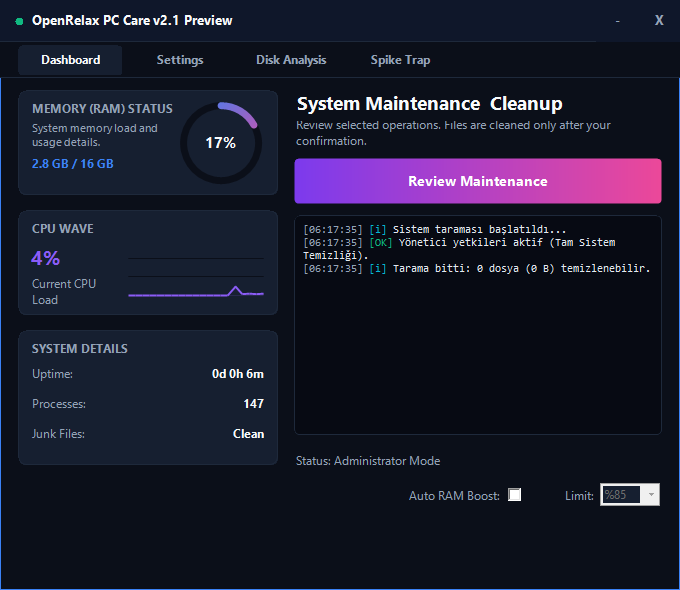
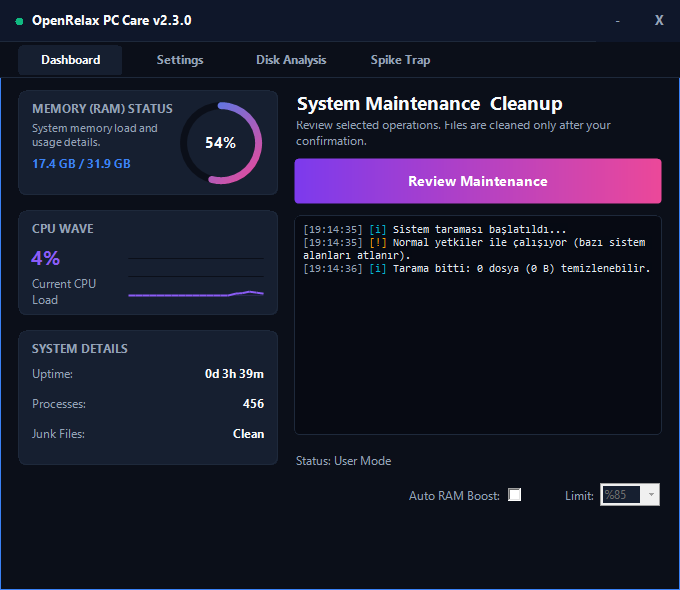
release: 2.3.0
Version 2.3.0 (no edition suffix), changelog joining the 2.2 notes with the
hardening from main, README/PLAN for the new features and roadmap,
tests/run-all.ps1 release gate, fresh TR/EN interface captures.

Release gate (local, standard user): verify, unit, engine-stress, ui-smoke,
exit-smoke, visual-smoke and gui-stress passed; elevated-fotokapan skipped
(runs in CI).

diff --git a/.github/ci/scope.py b/.github/ci/scope.py
@@ -7,7 +7,7 @@ from pathlib import Path
 ORDINARY_TESTS = {
     'tests/verify.ps1', 'tests/safety-contracts.ps1', 'tests/test-support.ps1', 'tests/unit.ps1',
     'tests/engine-stress.ps1', 'tests/gui-stress.ps1', 'tests/ui-smoke.ps1',
-    'tests/exit-smoke.ps1', 'tests/visual-smoke.ps1', 'tests/fotokapan-stress.ps1',
+    'tests/exit-smoke.ps1', 'tests/visual-smoke.ps1', 'tests/fotokapan-stress.ps1', 'tests/run-all.ps1',
 }
 
 

diff --git a/README.md b/README.md
@@ -3,7 +3,8 @@
 [![Windows verification](https://github.com/mehmeterendereli/openrelax/actions/workflows/verify.yml/badge.svg)](https://github.com/mehmeterendereli/openrelax/actions/workflows/verify.yml)
 
 Portable, MIT-licensed Windows maintenance software written in PowerShell and
-Windows Forms. Source version **2.1 Preview** is available from this repository.
+Windows Forms. Source version **2.3.0** is available from this repository
+([changelog](CHANGELOG.md)).
 No signed binary, stable release or published LTS support period is provided.
 
 ## Interface preview
@@ -12,9 +13,9 @@ No signed binary, stable release or published LTS support period is provided.
 | --- | --- |
 | ![OpenRelax English dashboard showing maintenance status and review controls](docs/screenshots/en-dashboard.png) | ![OpenRelax Türkçe panel; bakım durumu ve gözden geçirme denetimleri](docs/screenshots/tr-dashboard.png) |
 
-These are real 680×590 WinForms captures produced by the verified Windows workflow,
-not mock-ups. [Browse all eight TR/EN interface captures](docs/screenshots/README.md)
-and the [exact CI run](https://github.com/mehmeterendereli/openrelax/actions/runs/38117327204).
+These are real 680×590 WinForms captures made by `tests/visual-smoke.ps1`, not
+mock-ups; every CI run publishes fresh ones as evidence.
+[Browse all eight TR/EN interface captures](docs/screenshots/README.md).
 
 ## Run from source
 
@@ -50,11 +51,15 @@ powershell -NoProfile -ExecutionPolicy Bypass -File .\openrelax.ps1 -AutoClean
 ## Behaviour and safety boundaries
 
 - Defaults select temp, browser cache and Discord cache. Recycle Bin, shader
-  cache, error reports, update cache and GPU installer leftovers are opt-in.
+  cache, error reports, update cache, GPU installer leftovers and developer
+  package caches (npm, pip, NuGet, Yarn; files untouched for 24 hours) are opt-in.
+- Cleaning shows the files and bytes deleted so far on the maintenance button.
 - Interactive maintenance requires confirmation, including warnings for
   permanent Recycle Bin deletion and diagnostic/cache consequences.
 - RAM working-set trimming and DNS flushing are separate opt-in settings.
-  Automatic RAM trimming is also disabled by default. Trimming can cause pages
+  Automatic RAM trimming is also disabled by default. Critical processes, the
+  foreground app (a game, a call), processes busy during a 500 ms CPU sample and
+  processes under 30 MB are never trimmed. Trimming can cause pages
   to be loaded again; measured available-memory change is temporary and also
   affected by other programs. It is not proof of a performance improvement.
 - Only the canonical user temp and Windows temp paths are accepted. Custom
@@ -66,7 +71,8 @@ powershell -NoProfile -ExecutionPolicy Bypass -File .\openrelax.ps1 -AutoClean
 - Windows Update cleanup is interactive, admin-only and restores previously
   running services. Stop/restart failures are errors.
 - `-AutoClean` rejects missing/invalid settings. It skips Recycle Bin, shader,
-  WER, Windows Update and installer categories and does not trim RAM/flush DNS.
+  WER, Windows Update, installer and developer-cache categories and does not
+  trim RAM/flush DNS.
   Exit codes: **0** complete, **1** failed, **2** partial/skipped. `-SelfTest`
   also exits nonzero when its scan cannot complete reliably. Combining
   `-SelfTest` and `-AutoClean` is refused before any maintenance or state write.
@@ -74,23 +80,36 @@ powershell -NoProfile -ExecutionPolicy Bypass -File .\openrelax.ps1 -AutoClean
   Global, access-controlled mutexes coordinate the same settings path across Windows
   sessions; one GUI instance prevents stale preference overwrites.
   Statistics preserve the most recent saved preferences.
-- Scan sizes may be lower bounds. Disk analysis skips links and unreadable
-  entries, has a 30-second budget and labels incomplete results. A stalled
+- Scan sizes may be lower bounds. Disk analysis walks the profile once with
+  per-folder totals (files directly in the profile get their own row), skips
+  links and unreadable entries, stops after 90 seconds and labels incomplete
+  results. A stalled
   worker keeps the GUI busy until cancellation actually completes. Exit waits
   for active operations and service restoration instead of terminating their worker.
 
 Settings and aggregate statistics: `%APPDATA%\OpenRelax\settings.json`.
 Scheduled results: `%APPDATA%\OpenRelax\autoclean.log`.
-Existing valid 2.1 settings retain their categories; new RAM/DNS options default
-off. An invalid file is not silently replaced by AutoClean; review and save
+Existing valid 2.1/2.2 settings retain their categories and statistics; new
+RAM/DNS, developer-cache and command-line options default off. An invalid file is not silently replaced by AutoClean; review and save
 preferences in the GUI to recover it.
 
 ## Fotokapan CPU spike recorder
 
 Fotokapan runs independently as a SYSTEM scheduled task. Sustained CPU spikes
-record process names, IDs, parent names, CPU shares and timestamps. **Command
-arguments are omitted** (`cmd` is empty). CPU that cannot be assigned to a
-process is labelled unassigned, rather than diagnosed as a faulty driver.
+record process names, IDs, parent names, CPU shares, timestamps and whether Task
+Scheduler started the process. **Command arguments are omitted by default**
+(`cmd` and `parentCmd` are empty). The Fotokapan tab's **Record command lines
+(masked)** option, applied with Install / Update, keeps masked command lines so a
+`python.exe` or `node.exe` spike shows which script ran. Masking removes common
+token/password/key forms but cannot guarantee that every secret is removed.
+CPU that cannot be assigned to a process is labelled unattributed (interrupts/DPC
+or processes that exited), rather than diagnosed as a faulty driver.
+
+The tab's **Summary** page turns the last 7 days into findings per culprit
+category with advice, the culprit table and spikes per hour of day. **Records**
+lists every spike; **Save report** writes the diagnosis as Markdown to
+`Documents\OpenRelax\`. A tray balloon announces a new spike (at most one per 15
+minutes; switch it off on the tab).
 Defender scan/realtime classification is heuristic; extra Defender performance
 tracing is off unless standalone `-DefenderTrace` is explicitly supplied.
 Such traces may contain file paths; do not publish them without review.
@@ -109,8 +128,10 @@ Standalone installation defaults to its current user; use `-ReaderSid <user-SID>
 when explicitly installing for another Windows account. Source files retain
 administrative ownership and protected ACLs. Reparse and
 hardlinked existing task files/logs are rejected before ACL changes. Uninstall
-retains recordings. Old logs in the previous root are retained on upgrade. They can still contain
-command arguments recorded by earlier versions; review them before sharing.
+retains recordings. Installing over a 2.2.x trap moves its records, log and
+heartbeat from the trap root into `logs/` (until then the GUI reads both). They
+can still contain command arguments recorded by earlier versions; review them
+before sharing.
 Failed upgrades leave the old task disabled, including across reboot.
 Monthly logs older than 180 days are pruned by the recorder.
 
@@ -125,7 +146,13 @@ powershell -NoProfile -ExecutionPolicy Bypass -File .\tests\verify.ps1
 powershell -NoProfile -ExecutionPolicy Bypass -File .\tests\visual-smoke.ps1
 # Native focus, accessible controls and small-viewport reachability
 powershell -NoProfile -ExecutionPolicy Bypass -File .\tests\ui-smoke.ps1
+# Release gate: every suite in order with a summary
+powershell -NoProfile -ExecutionPolicy Bypass -File .\tests\run-all.ps1
 ```
+
+`verify.ps1` also runs `tests\unit.ps1`: the engine walker, categories, RAM-trim
+selection, Fotokapan recorder helpers and legacy-log migration, diagnosis,
+report and notification rules.
 
 CI parses every PowerShell source/test and all four worker scripts, runs
 deterministic safety contracts and starts real isolated SelfTest/AutoClean
@@ -159,8 +186,11 @@ non-sensitive log excerpt.
 | --- | --- |
 | `openrelax.ps1` | WinForms UI, target descriptors, Windows integration and worker entrypoints |
 | `lib/OpenRelax.Core.ps1` | Typed settings, atomic persistence, path guards, traversal and shared maintenance orchestration |
+| `lib/OpenRelax.Engine.ps1` | Cleanup categories, the guarded single-pass walker, Windows Update cleanup and RAM trimming |
+| `lib/OpenRelax.Trap.ps1` | Fotokapan record reading, episodes, culprits, diagnosis, report and notification rules |
 | `fotokapan.ps1` | Recorder and protected SYSTEM installation |
-| `tests/verify.ps1`, `tests/safety-contracts.ps1` | Lightweight CI and real synthetic end-to-end checks |
+| `tests/verify.ps1`, `tests/safety-contracts.ps1`, `tests/unit.ps1` | Lightweight CI, pure-function and real synthetic end-to-end checks |
+| `tests/run-all.ps1` | Release gate |
 | `tests/test-support.ps1` | Owned fixtures and bounded child-process isolation |
 | `tests/visual-smoke.ps1`, `tests/*-stress.ps1` | Visual and optional resource/load checks |
 
@@ -175,5 +205,17 @@ OpenRelax kaynak üzerinden çalışan açık kaynak Windows bakım aracıdır. 
 öncesinde seçilen işlemleri gözden geçirin. Sepet, sistem önbellekleri, RAM ve
 DNS işlemleri varsayılan olarak kapalıdır. Bozuk ayarla otomatik temizlik durur.
 Testler yalnız kendilerinin oluşturduğu sentetik dosyaları kullanır.
+
+2.3 yenilikleri: **Fotokapan** sekmesinde son 7 günün teşhisi (Defender, oyun,
+geliştirici/AI araçları, tarayıcı, Windows, zamanlanmış görev ve süreçlere
+atanamayan CPU payları, ne yapılacağıyla), saate göre dağılım, tüm sıçramaların
+listesi, Markdown raporu (`Belgeler\OpenRelax\`) ve yeni sıçrama bildirimi.
+**Komut satırlarını kaydet (maskeli)** seçeneği varsayılan olarak kapalıdır;
+açılıp Kur / Güncelle yapıldığında `python.exe` gibi bir sorumlunun hangi betiği
+çalıştırdığı görünür. Maskeleme her gizli bilgiyi yakalayamaz. Ayrıca isteğe
+bağlı geliştirici önbellekleri (npm, pip, NuGet, Yarn), temizlik sırasında canlı
+dosya/bayt sayacı, tek geçişte ve en fazla 90 saniyede biten disk analizi ve ön
+plandaki ya da o an çalışan uygulamalara dokunmayan RAM boşaltma geldi. 2.2.x ile
+kurulmuş Fotokapan kayıtları, Kur / Güncelle ile yeni `logs\` klasörüne taşınır.
 Geliştirme sırası, kabul ölçütleri ve kalan sürüm doğrulamaları [PLAN.md](PLAN.md)
 içindedir. Lisans [MIT](LICENSE).

diff --git a/CHANGELOG.md b/CHANGELOG.md
@@ -1,6 +1,35 @@
 # Changelog
 
-## Unreleased
+## 2.3.0 — unreleased
+
+This release joins the two lines of development. The 2.2 features were built
+locally on top of 2.1.1 and never published (they are kept on branch
+`archive/local-2.2.1`); `main` meanwhile received the hardening below. 2.3.0 is
+`main` plus the 2.2 features, ported onto its safety model. Design and plan:
+`docs/superpowers/specs/2026-10-17-openrelax-roadmap-design.md`,
+`docs/superpowers/plans/2026-10-17-openrelax-2.3.md`.
+
+### Added
+- **Fotokapan diagnosis.** The tab's Summary page turns the last 7 days of spikes into findings per culprit category: Defender (on-demand scans vs. real-time scanning, with the folder it scanned most when a `-DefenderTrace` recording exists), games, developer/AI tools, browser, Windows, scheduled tasks and unattributed CPU. Each finding gives its share and what to do. The page also shows the culprit table and spikes per hour of day.
+- **Records page and report.** Every spike with duration, peak, culprit and notes (Defender scan/real-time, scheduled task); **Save report** writes the diagnosis as Markdown to `Documents\OpenRelax\`.
+- **Spike notifications.** A tray balloon when a new spike is recorded (at most one per 15 minutes; a click opens the records; switch on the Fotokapan tab).
+- **Opt-in command-line recording.** Off by default. When switched on (Fotokapan tab, then Install / Update), the trap keeps masked command lines of the top processes and their parents, so a `python.exe` or `node.exe` spike shows which script ran. Masking is best effort and the setting says so.
+- **Scheduled-task detection without storing arguments.** The recorder decides from the parent's command line whether Task Scheduler started a process, then discards it.
+- **Developer caches** category (npm, pip, NuGet, Yarn): opt-in, files untouched for 24 h only, never cleaned by headless AutoClean.
+- **Live cleaning progress**: files and bytes deleted so far on the button.
+- `tests/unit.ps1` (part of `verify.ps1`) and `tests/run-all.ps1` (release gate).
+
+### Changed
+- **Engine walker.** Scan, clean and disk analysis share `Invoke-JunkWalk` (`lib/OpenRelax.Engine.ps1`): one directory walk that never enters reparse points, re-checks the folder chain and each file before deleting, and reports progress by elapsed time. Removing 30 000 files: about 6.6 s.
+- **Disk analysis** walks the profile once (at most 90 s) with per-folder totals; files directly in the profile get their own row.
+- **RAM trimming** leaves the foreground app, processes busy during a 500 ms CPU sample and processes under 30 MB alone, and logs how many it skipped.
+- Fotokapan record reading, diagnosis and report logic moved to `lib/OpenRelax.Trap.ps1`; settings schema 3 (`devcache`, `trapNotify`, `trapRecordCommandLines`; older files load unchanged).
+
+### Fixed
+- **Upgrading a 2.2.x trap lost the visible history.** 2.2.x wrote its records to the trap root; 2.3 reads `logs\`. The GUI now also reads the old root until the trap is reinstalled, and installing moves the files into `logs\` (a month present in both keeps the older lines first).
+- Defender recordings no longer lose their summary on report rows without a path or on archive members (from 2.2.1).
+
+### Hardening carried over from `main` (previously "Unreleased")
 
 - Add a current-user desktop shortcut installer and a multi-resolution icon matching the application branding.
 - Split typed settings, atomic persistence, path guards and maintenance orchestration into `lib/OpenRelax.Core.ps1`.

diff --git a/docs/screenshots/README.md b/docs/screenshots/README.md
@@ -1,10 +1,12 @@
-# Verified interface captures
+# Interface captures
 
-These eight 680×590 screenshots are real OpenRelax 2.1 Preview WinForms captures
-from the passing [GitHub Actions run 38117327204](https://github.com/mehmeterendereli/openrelax/actions/runs/38117327204)
-at commit `994cad0ea63db22b45d13c66b6bdae036331fc40`. The workflow exercised the native UI in both supported
-languages before publishing its evidence artifact. They are not design mock-ups
-or proof of the remaining release gates listed in the root [README](../../README.md).
+These eight 680×590 screenshots are real OpenRelax 2.3.0 WinForms captures made
+by `tests/visual-smoke.ps1` on Windows 11 23H2 against its owned synthetic
+fixture, so the lists show their empty states. They are not design mock-ups or
+proof of the remaining release gates listed in the root [README](../../README.md).
+The 2.1 Preview captures were made by
+[GitHub Actions run 38117327204](https://github.com/mehmeterendereli/openrelax/actions/runs/38117327204);
+every pull request's CI run publishes fresh captures as its evidence artifact.
 
 | Page | English | Türkçe |
 | --- | --- | --- |
@@ -13,6 +15,5 @@ or proof of the remaining release gates listed in the root [README](../../README
 | Disk Analysis / Disk Analizi | ![English disk analysis](en-disk-analysis.png) | ![Türkçe disk analizi](tr-disk-analysis.png) |
 | Spike Trap / Fotokapan | ![English CPU spike recorder](en-spike-trap.png) | ![Türkçe CPU sıçrama kaydedici](tr-fotokapan.png) |
 
-Capture checks and source packaging passed in that run. GitHub-hosted evidence is
-bounded: it does not certify physical keyboard use, Narrator, monitor-DPI
+Local captures do not certify physical keyboard use, Narrator, monitor-DPI
 transitions, RDP, signing, a stable release or an LTS support period.

diff --git a/PLAN.md b/PLAN.md
@@ -1,4 +1,19 @@
-# OpenRelax uçtan uca geliştirme planı
+# OpenRelax geliştirme planı
+
+## Yol haritası (2026-10-17)
+
+Tasarım: [docs/superpowers/specs/2026-10-17-openrelax-roadmap-design.md](docs/superpowers/specs/2026-10-17-openrelax-roadmap-design.md).
+2.3.0 uygulama planı: [docs/superpowers/plans/2026-10-17-openrelax-2.3.md](docs/superpowers/plans/2026-10-17-openrelax-2.3.md).
+
+| Sürüm | İçerik | Durum |
+| --- | --- | --- |
+| 2.3.0 | Yayınlanmamış 2.2 hattının (`archive/local-2.2.1`) bu ana hatta taşınması: tek geçişli korumalı walker, canlı ilerleme, disk analizi, geliştirici önbellekleri, RAM hedef seçimi, Fotokapan teşhisi/kayıtları/raporu/bildirimi, isteğe bağlı maskeli komut satırı, 2.2 kayıt göçü | Kod ve yerel kabul tamamlandı; PR ve CI bekliyor |
+| 2.4 | Dağıtım: `%LOCALAPPDATA%` kurulumu, başlangıç/görev yolu onarımı, Release zip + SHA256, Scoop, güncelleme bildirimi, toast | Planlandı |
+| 2.5 | Fotokapan: arayüzden eşik, betik içgörüsü, disk/bellek/GPU sıçramaları, Olay Günlüğü korelasyonu, trend grafiği, CSV, saklama süresi | Planlandı |
+| 2.6 | Temizlik: önizleme, hariç tutma listesi, yeni hedefler, ayrıntılı geçmiş, CLI | Planlandı |
+| 2.7 | Sistem sağlığı sekmesi: başlangıç programları, disk sağlığı, pil, büyük dosyalar, rapor | Planlandı |
+
+## 2.1 Preview sağlamlaştırma planı (tamamlandı)
 
 Kapsam: mevcut kaynak sürümünün güvenliği, sonuç doğruluğu, açık kaynak bakımı ve arayüzü.
 Kaynak başlangıcı: `a9750d4`; çalışma dalı: `codex/openrelax-safety-and-oss-20261009`.
